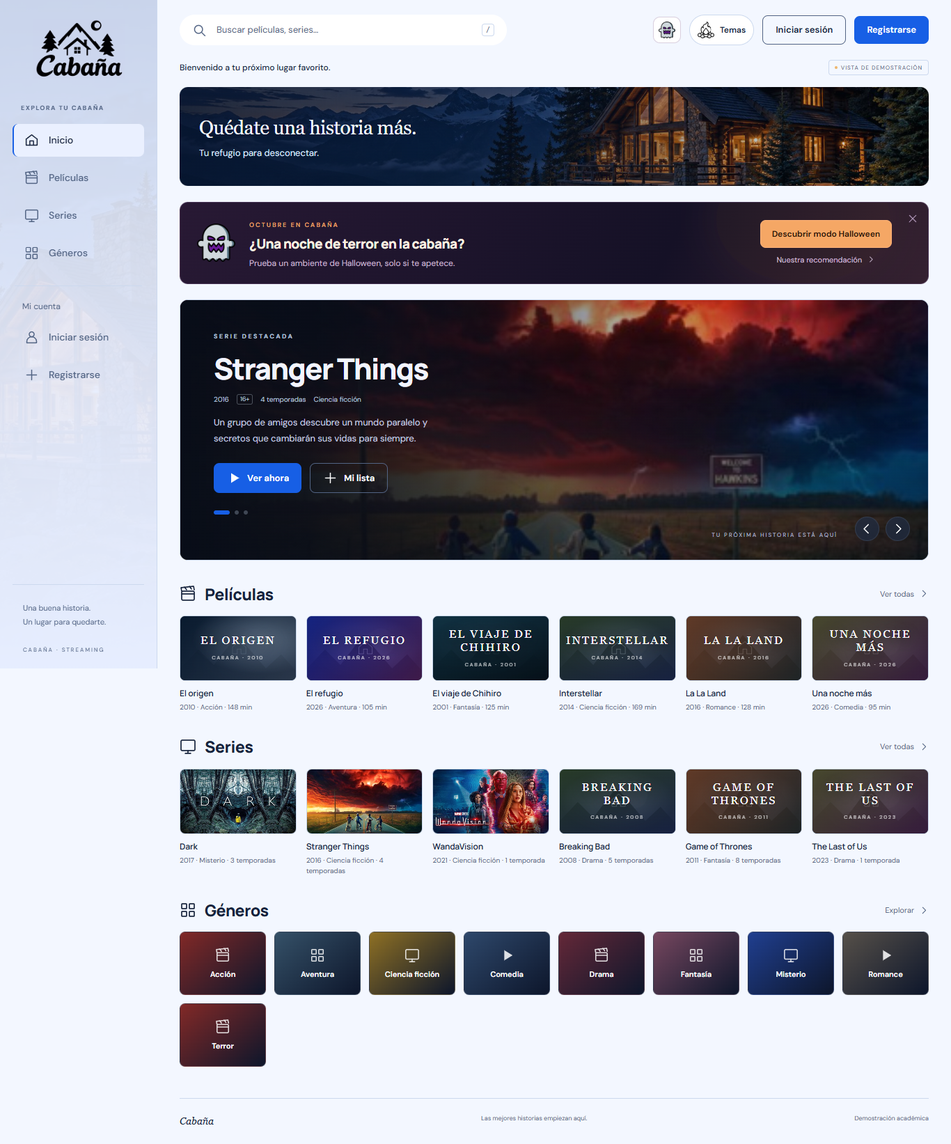
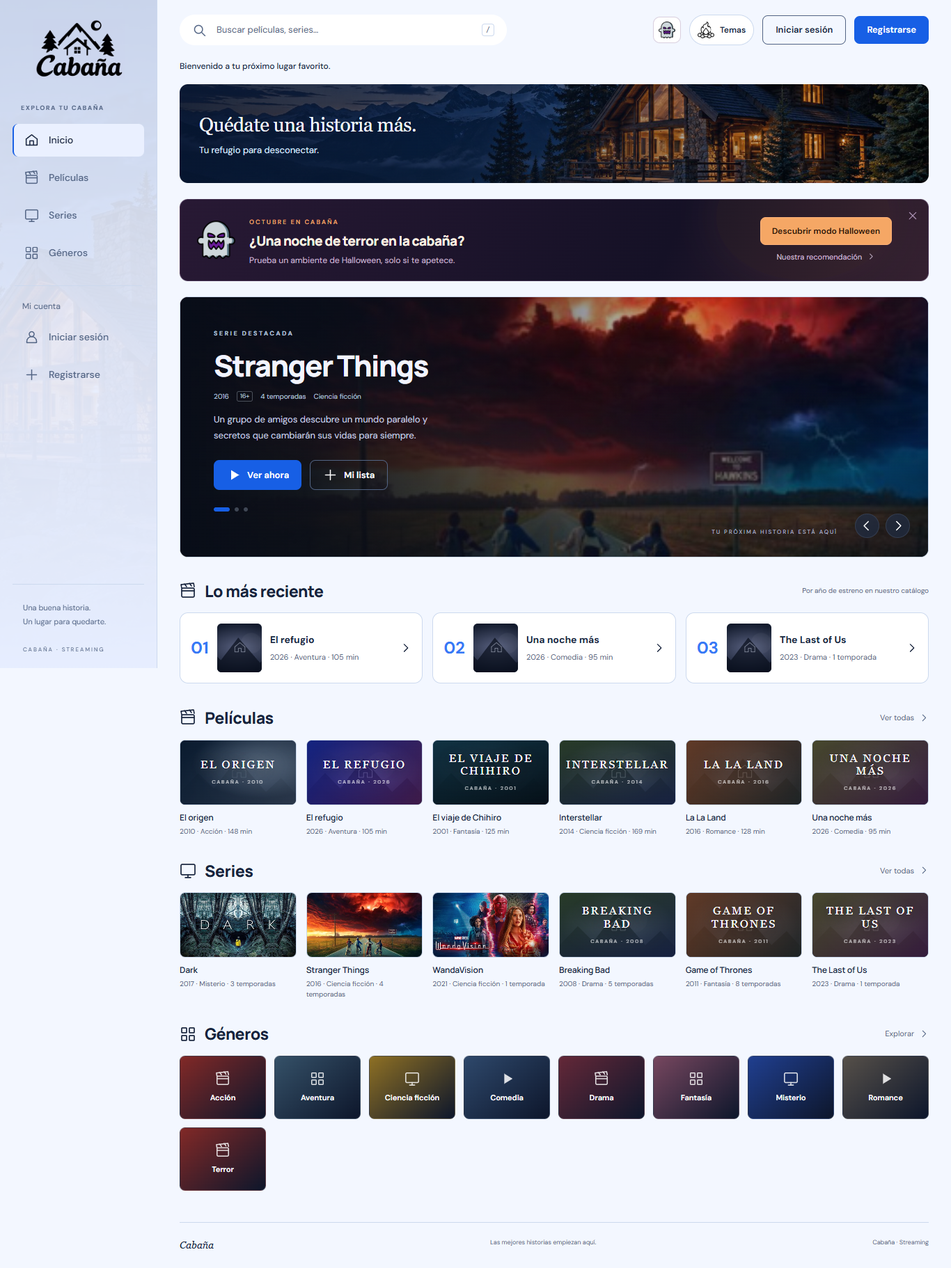
Ordena el frontend, recupera portadas y activa el inicio con Supabase

diff --git a/frontend/js/app.js b/frontend/js/app.js
@@ -1,21 +1,7 @@
 import {frontendUrl,assetUrl,contentImageUrl} from './paths.js';
 import {seasonalAnnouncement,halloweenRecommendation,setupHalloween,configureHalloween,addHalloweenVisitor,syncSeasonToggle} from './halloween.js';
-const icons = {
-  home:'<path d="m3 10 9-7 9 7v10H3Z"/><path d="M9 20v-7h6v7"/>',
-  movie:'<rect x="3" y="8" width="18" height="13" rx="2"/><path d="m3 8-1-5 18-2 1 5M7 2l3 4m4-5 3 4M3 12h18"/>',
-  series:'<rect x="2" y="3" width="20" height="15" rx="2"/><path d="M8 22h8m-4-4v4"/>',
-  genres:'<rect x="3" y="3" width="7" height="7" rx="1"/><rect x="14" y="3" width="7" height="7" rx="1"/><rect x="3" y="14" width="7" height="7" rx="1"/><rect x="14" y="14" width="7" height="7" rx="1"/>',
-  search:'<circle cx="10.5" cy="10.5" r="6.5"/><path d="m16 16 5 5"/>',
-  user:'<circle cx="12" cy="7" r="4"/><path d="M4 21v-2a8 8 0 0 1 16 0v2Z"/>',
-  plus:'<path d="M12 4v16M4 12h16"/>',check:'<path d="m4 12 5 5L20 6"/>',
-  play:'<path d="m8 4 13 8-13 8Z" fill="currentColor" stroke="none"/>',
-  left:'<path d="m14 5-7 7 7 7"/>',right:'<path d="m10 5 7 7-7 7"/>',close:'<path d="m5 5 14 14M19 5 5 19"/>',
-  eye:'<path d="M2 12s3-7 10-7 10 7 10 7-3 7-10 7-10-7-10-7Z"/><circle cx="12" cy="12" r="3"/>',
-  menu:'<path d="M3 6h18M3 12h18M3 18h18"/>',logout:'<path d="M9 3H3v18h6M9 12h12m-4-4 4 4-4 4"/>',
-  list:'<path d="M8 6h13M8 12h13M8 18h13M3 6h1M3 12h1M3 18h1"/>',
-  admin:'<path d="m12 2 8 4v6c0 5-8 10-8 10S4 17 4 12V6Z"/><path d="m8 12 3 3 5-6"/>',
-};
-const svg = name => `<svg viewBox="0 0 24 24" aria-hidden="true">${icons[name] || icons.genres}</svg>`;
+import {svg} from './components/icons.js';
+import {posterLibrary} from './data/posters.js';
 const $ = selector => document.querySelector(selector);
 const esc = value => String(value ?? '').replace(/[&<>"']/g,c=>({'&':'&amp;','<':'&lt;','>':'&gt;','"':'&quot;',"'":'&#39;'}[c]));
 const state = { catalog:[], genres:[], list:[], progress:[], token:null, user:null, demo:false, query:'', genre:new URLSearchParams(location.search).get('genre')||'', slide:0, refresh:null, loaded:false, admin:[] };
@@ -78,9 +64,14 @@ function hero(){
   state.slide=((state.slide%featured.length)+featured.length)%featured.length;const c=featured[state.slide];
   return `<section class="hero" aria-label="Contenido destacado"><div class="hero-art" id="hero-art"></div><div class="hero-shade"></div><div class="hero-content"><span class="eyebrow">${c.type==='SERIES'?'Serie':'Película'} destacada</span><h1>${esc(c.title)}</h1><div class="hero-meta"><span>${c.releaseYear}</span><span class="rating">${esc(c.ageRating)}</span><span>${c.type==='SERIES'?`${c.seasons} temporadas`:`${c.durationMinutes} min`}</span><span>${esc(c.genre)}</span></div><p>${esc(c.description)}</p><div class="hero-buttons"><button class="button primary" data-play="${c.id}">${svg('play')}Ver ahora</button><button class="button outline" data-save="${c.id}">${svg(saved(c.id)?'check':'plus')}${saved(c.id)?'En mi lista':'Mi lista'}</button></div><div class="hero-dots">${featured.map((f,i)=>`<button class="hero-dot ${i===state.slide?'active':''}" data-slide="${i}" aria-label="Mostrar ${esc(f.title)}" aria-pressed="${i===state.slide}"></button>`).join('')}</div></div><span class="hero-bottom">TU PRÓXIMA HISTORIA ESTÁ AQUÍ</span><div class="hero-arrows"><button class="icon-button" data-step="-1" aria-label="Destacado anterior">${svg('left')}</button><button class="icon-button" data-step="1" aria-label="Siguiente destacado">${svg('right')}</button></div></section>`;
 }
+function recentReleases(){
+  const titles=[...state.catalog].sort((a,b)=>b.releaseYear-a.releaseYear||a.title.localeCompare(b.title,'es')).slice(0,3);
+  if(!titles.length)return '';
+  return `<section class="section recent-releases" aria-labelledby="recent-title"><div class="section-heading"><h2 id="recent-title">${svg('movie')}Lo más reciente</h2><span class="card-meta">Por año de estreno en nuestro catálogo</span></div><div class="recent-grid">${titles.map((c,i)=>`<button class="recent-item" data-detail="${c.id}" aria-label="Ver detalles de ${esc(c.title)}"><span class="recent-number">${String(i+1).padStart(2,'0')}</span><img src="${esc(contentImageUrl(c.imageUrl))}" alt="" loading="lazy"><span><strong>${esc(c.title)}</strong><small>${meta(c)}</small></span>${svg('right')}</button>`).join('')}</div></section>`;
+}
 function home(){
   const continuing=state.progress.filter(p=>p.seconds>0).map(p=>p.content);
-  return `<div class="welcome-line"><strong>${state.user?`Qué bueno verte, ${esc(state.user.name.split(' ')[0])}.`:'Bienvenido a tu próximo lugar favorito.'}</strong>${state.demo?'<span class="demo-tag">VISTA DE DEMOSTRACIÓN</span>':''}</div><section class="cabin-welcome" aria-label="Bienvenido a Cabaña"><div><h2>Quédate una historia más.</h2><p>Tu refugio para desconectar.</p></div></section>${seasonalAnnouncement()}${hero()}${halloweenRecommendation()}${continuing.length?section('Seguir viendo','play',continuing,'list'):''}${section('Películas','movie',state.catalog.filter(c=>c.type==='MOVIE'),'movies')}${section('Series','series',state.catalog.filter(c=>c.type==='SERIES'),'series')}<section class="section"><div class="section-heading"><h2>${svg('genres')}Géneros</h2><a class="see-all" href="#genres">Explorar ${svg('right')}</a></div><div class="genres-grid">${genreTiles()}</div></section>`;
+  return `<div class="welcome-line"><strong>${state.user?`Qué bueno verte, ${esc(state.user.name.split(' ')[0])}.`:'Bienvenido a tu próximo lugar favorito.'}</strong>${state.demo?'<span class="demo-tag">VISTA DE DEMOSTRACIÓN</span>':''}</div><section class="cabin-welcome" aria-label="Bienvenido a Cabaña"><div><h2>Quédate una historia más.</h2><p>Tu refugio para desconectar.</p></div></section>${seasonalAnnouncement()}${hero()}${recentReleases()}${halloweenRecommendation()}${continuing.length?section('Seguir viendo','play',continuing,'list'):''}${section('Películas','movie',state.catalog.filter(c=>c.type==='MOVIE'),'movies')}${section('Series','series',state.catalog.filter(c=>c.type==='SERIES'),'series')}<section class="section"><div class="section-heading"><h2>${svg('genres')}Géneros</h2><a class="see-all" href="#genres">Explorar ${svg('right')}</a></div><div class="genres-grid">${genreTiles()}</div></section>`;
 }
 function empty(title,message,link='home',label='Explorar catálogo'){return `<div class="empty-state">${svg('search')}<h2>${title}</h2><p>${message}</p><a href="#${link}" class="button primary">${label}</a></div>`;}
 function browse(r){
@@ -140,7 +131,7 @@ async function reloadCatalog(){[state.catalog,state.genres]=await Promise.all([r
 function editor(id){
   const c=id==='new'?{}:state.admin.find(c=>c.id===id);if(!c)return;
   const field=(name,label,type='text',extra='')=>`<div class="form-field"><label for="edit-${name}">${label}</label><input id="edit-${name}" name="${name}" type="${type}" value="${esc(c[name]??'')}" ${extra}></div>`;
-  $('#editor-dialog').innerHTML=`<button class="icon-button dialog-close" data-close="editor-dialog" aria-label="Cerrar formulario">${svg('close')}</button><h2>${id==='new'?'Nuevo contenido':'Editar contenido'}</h2><form id="editor-form" data-id="${id}"><div class="form-grid"><div class="full">${field('title','Título','text','required maxlength="150"')}</div><div class="form-field full"><label for="edit-description">Descripción</label><textarea id="edit-description" name="description" required maxlength="2000">${esc(c.description??'')}</textarea></div><div class="form-field"><label for="edit-type">Tipo</label><select id="edit-type" name="type"><option value="MOVIE" ${c.type==='MOVIE'?'selected':''}>Película</option><option value="SERIES" ${c.type==='SERIES'?'selected':''}>Serie</option></select></div>${field('genre','Género','text','required maxlength="30"')}${field('releaseYear','Año','number','required min="1888" max="2100"')}${field('durationMinutes','Duración en minutos','number','required min="1" max="1500"')}${field('seasons','Temporadas (0 para películas)','number','required min="0" max="100"')}<div class="form-field"><label for="edit-ageRating">Clasificación</label><select id="edit-ageRating" name="ageRating">${['ATP','7+','13+','16+','18+'].map(r=>`<option ${c.ageRating===r?'selected':''}>${r}</option>`).join('')}</select></div><div class="full">${field('imageUrl','Imagen (URL HTTPS o /assets/)','text','required maxlength="1000"')}${field('videoPath','Ruta de video en Supabase (opcional)','text','maxlength="1000" placeholder="peliculas/mi-video.mp4"')}</div></div><label class="checkbox-field"><input name="featured" type="checkbox" ${c.featured?'checked':''}>Mostrar en destacados</label><p id="editor-error" class="form-error" role="alert"></p><button type="submit" class="button primary">Guardar contenido</button></form>`;
+  $('#editor-dialog').innerHTML=`<button class="icon-button dialog-close" data-close="editor-dialog" aria-label="Cerrar formulario">${svg('close')}</button><h2>${id==='new'?'Nuevo contenido':'Editar contenido'}</h2><form id="editor-form" data-id="${id}"><div class="form-grid"><div class="full">${field('title','Título','text','required maxlength="150"')}</div><div class="form-field full"><label for="edit-description">Descripción</label><textarea id="edit-description" name="description" required maxlength="2000">${esc(c.description??'')}</textarea></div><div class="form-field"><label for="edit-type">Tipo</label><select id="edit-type" name="type"><option value="MOVIE" ${c.type==='MOVIE'?'selected':''}>Película</option><option value="SERIES" ${c.type==='SERIES'?'selected':''}>Serie</option></select></div>${field('genre','Género','text','required maxlength="30"')}${field('releaseYear','Año','number','required min="1888" max="2100"')}${field('durationMinutes','Duración en minutos','number','required min="1" max="1500"')}${field('seasons','Temporadas (0 para películas)','number','required min="0" max="100"')}<div class="form-field"><label for="edit-ageRating">Clasificación</label><select id="edit-ageRating" name="ageRating">${['ATP','7+','13+','16+','18+'].map(r=>`<option ${c.ageRating===r?'selected':''}>${r}</option>`).join('')}</select></div><div class="full">${field('imageUrl','Imagen (URL HTTPS o /assets/)','text','required maxlength="1000"')}<details class="poster-library"><summary>Elegir una portada recuperada</summary><p>Selecciona la imagen que corresponda al contenido que estás editando.</p><div class="poster-library-grid">${posterLibrary.map(p=>`<button type="button" data-poster="${esc(p.path)}" aria-label="Usar portada: ${esc(p.label)}"><img src="${assetUrl(p.path.slice(8))}" alt="" loading="lazy"><span>${esc(p.label)}</span></button>`).join('')}</div></details>${field('videoPath','Ruta de video en Supabase (opcional)','text','maxlength="1000" placeholder="peliculas/mi-video.mp4"')}</div></div><label class="checkbox-field"><input name="featured" type="checkbox" ${c.featured?'checked':''}>Mostrar en destacados</label><p id="editor-error" class="form-error" role="alert"></p><button type="submit" class="button primary">Guardar contenido</button></form>`;
   $('#editor-dialog').showModal();
 }
 document.addEventListener('click',async event=>{
@@ -154,6 +145,7 @@ document.addEventListener('click',async event=>{
   if(b.dataset.genre){location.assign(pageLink('genres')+'?genre='+encodeURIComponent(b.dataset.genre));}
   if(b.dataset.filter!==undefined){state.genre=b.dataset.filter;render();}
   if(b.dataset.edit)editor(b.dataset.edit);
+  if(b.dataset.poster){$('#edit-imageUrl').value=b.dataset.poster;toast('Portada seleccionada. Guarda el contenido para aplicar el cambio.');}
   if(b.dataset.delete){const c=state.catalog.find(c=>c.id===b.dataset.delete);if(confirm(`¿Eliminar “${c.title}” del catálogo?`)){try{await request(`/admin/catalog/${c.id}`,{method:'DELETE'});await reloadCatalog();await render();toast('Contenido eliminado.');}catch(e){toast(e.message);}}}
   if(b.classList.contains('password-toggle')){const input=$('#password');input.type=input.type==='password'?'text':'password';b.setAttribute('aria-label',input.type==='password'?'Mostrar contraseña':'Ocultar contraseña');}
   if(b.dataset.action==='logout'){try{await request('/auth/logout',{method:'POST'});}finally{await clearSession();navigate('home');toast('Has cerrado sesión.');}}

diff --git a/frontend/css/cabana.css b/frontend/css/cabana.css
@@ -1,7 +1,7 @@
 /* Cabaña keeps its blue identity; the fire icon opens the theme choices. */
 :root[data-theme=light]{--bg:#f3f7ff;--sidebar:#e6eeff;--surface:#fff;--surface-2:#eaf0ff;--muted:#526484;--line:#ccd9ee}
 .sidebar{isolation:isolate}
-.sidebar:before{content:'';position:absolute;inset:0;z-index:-1;background:linear-gradient(0deg,var(--sidebar),transparent),url('./assets/cabin-blue.jpg') 68% center/cover;opacity:.38;pointer-events:none}
+.sidebar:before{content:'';position:absolute;inset:0;z-index:-1;background:linear-gradient(0deg,var(--sidebar),transparent),url('../assets/cabin-blue.jpg') 68% center/cover;opacity:.38;pointer-events:none}
 :root[data-theme=light] .sidebar:before{opacity:.14}
 .sidebar-bottom{border-top:1px solid var(--line);padding-top:18px}
 .little-fire{display:none}
@@ -19,13 +19,29 @@
 .theme-swatch-dark{background:linear-gradient(135deg,#111b30 50%,#246cff 50%)}
 .theme-swatch-light{background:linear-gradient(135deg,#fff 50%,#175fe5 50%)}
 .theme-swatch-halloween{background:linear-gradient(135deg,#241a32 50%,#fa974e 50%)}
-.cabin-welcome{min-height:142px;display:flex;align-items:center;padding:25px 28px;margin-bottom:23px;border-radius:var(--radius);color:#f5f8ff;background:linear-gradient(90deg,#07152eea,#07152e80 50%,#07152e16),url('./assets/cabin-blue.jpg') 65% 60%/cover}
+.cabin-welcome{min-height:142px;display:flex;align-items:center;padding:25px 28px;margin-bottom:23px;border-radius:var(--radius);color:#f5f8ff;background:linear-gradient(90deg,#07152eea,#07152e80 50%,#07152e16),url('../assets/cabin-blue.jpg') 65% 60%/cover}
 .cabin-welcome h2{font-family:Georgia,serif;font-weight:400;font-size:28px;letter-spacing:-.5px}
 .cabin-welcome p{font-size:13px;color:#dbe8ff;margin-top:6px}
-:root[data-theme=halloween] .sidebar:before{background:linear-gradient(#17101fd9,#17101fe8),url('./assets/halloween-bricks.jpg') center top/340px auto repeat;opacity:1}
+:root[data-theme=halloween] .sidebar:before{background:linear-gradient(#17101fd9,#17101fe8),url('../assets/halloween-bricks.jpg') center top/340px auto repeat;opacity:1}
 :root[data-theme=halloween] .sidebar .nav-item{color:#e7dced}
 :root[data-theme=halloween] .sidebar .nav-item.active,:root[data-theme=halloween] .sidebar .nav-item:hover{background:#271c35f2}
 :root[data-theme=halloween] .sidebar .nav-label,:root[data-theme=halloween] .sidebar .nav-section,:root[data-theme=halloween] .sidebar-bottom{color:#d7c6df}
-:root[data-theme=halloween] .cabin-welcome{background:linear-gradient(90deg,#19132fea,#26163360),url('./assets/cabin-blue.jpg') 65% 60%/cover}
+:root[data-theme=halloween] .cabin-welcome{background:linear-gradient(90deg,#19132fea,#26163360),url('../assets/cabin-blue.jpg') 65% 60%/cover}
 @media(max-width:800px){.topbar{position:relative;z-index:40}.topbar-actions{position:relative}.theme-picker{position:static}.menu-button{min-width:44px;min-height:44px}.theme-picker .theme-button{padding:8px;width:44px}.theme-label{display:none}}
 @media(max-width:520px){.topbar{gap:8px}.topbar-actions,#account-actions{gap:6px}.search-wrap{min-width:0;padding:9px}.search-wrap input{font-size:12px}.season-button{min-width:36px;min-height:44px}.topbar-actions .button{min-height:44px}.cabin-welcome{min-height:164px;padding:23px 21px;background-position:65% center}.cabin-welcome h2{font-size:25px}.welcome-line{gap:12px;flex-wrap:wrap}}
+.recent-grid{display:grid;grid-template-columns:repeat(3,minmax(0,1fr));gap:14px}
+.recent-item{display:flex;align-items:center;gap:12px;padding:15px;background:var(--surface);color:var(--text);border:1px solid var(--line);border-radius:var(--radius);text-align:left;min-width:0}
+.recent-item:hover{background:var(--surface-2)}
+.recent-number{font-size:24px;font-weight:800;color:var(--blue-hover)}
+.recent-item img{width:64px;height:70px;object-fit:cover;border-radius:6px}
+.recent-item strong{display:block;font-size:14px}
+.recent-item small{display:block;margin-top:6px;font-size:11px;color:var(--muted)}
+.recent-item>svg{width:18px;height:18px;flex-shrink:0;margin-left:auto}
+.poster-library{margin:8px 0 20px;padding:12px;background:var(--surface-2);border-radius:8px}
+.poster-library summary{cursor:pointer;font-weight:600}
+.poster-library p{font-size:12px;color:var(--muted);margin:10px 0}
+.poster-library-grid{display:grid;grid-template-columns:repeat(4,minmax(0,1fr));gap:10px}
+.poster-library-grid button{padding:7px;border:1px solid var(--line);border-radius:7px;background:var(--surface);color:var(--text);font-size:11px;text-align:left}
+.poster-library-grid img{display:block;width:100%;height:115px;object-fit:cover;border-radius:4px;margin-bottom:7px}
+@media(max-width:1100px){.recent-grid{grid-template-columns:1fr}.recent-item img{width:90px;height:58px}}
+@media(max-width:520px){.recent-releases .section-heading{align-items:flex-start;flex-direction:column;gap:8px}.recent-item{gap:9px;padding:12px}.recent-item img{width:55px}.poster-library-grid{grid-template-columns:repeat(2,minmax(0,1fr))}}

diff --git a/frontend/js/bootstrap.js b/frontend/js/bootstrap.js
@@ -1,11 +1,11 @@
 (() => {
-  const base = new URL('.', document.currentScript.src);
+  const base = new URL('../', document.currentScript.src);
   const loopback = ['localhost', '127.0.0.1', '[::1]'].includes(location.hostname);
   const liveServer = loopback && (/^55\d{2}$/.test(location.port) || base.pathname.endsWith('/frontend/'));
   if (location.protocol !== 'file:' && !liveServer) {
     const script = document.createElement('script');
     script.type = 'module';
-    script.src = new URL('app.js', base).href;
+    script.src = new URL('js/app.js', base).href;
     document.body.append(script);
     return;
   }
@@ -17,11 +17,11 @@
   document.querySelector('.brand').href = pageUrl('inicio');
   document.querySelector('#mode-label').textContent = `${liveServer ? 'Live Server' : 'Vista local'} · Inicia Java para usar Cabaña`;
   const main = document.querySelector('#main');
-  main.innerHTML = '<section class="page-heading"><span class="eyebrow">VISTA LOCAL</span><h1>Enciende la Cabaña</h1><p>El diseño ya está cargado. Para ver el catálogo, iniciar sesión y usar el CRUD, ejecuta <strong>Iniciar_Cabana.cmd</strong> desde la carpeta del proyecto con Java 21.</p><p>Después abre Cabaña desde el servidor:</p><a class="button primary" href="http://localhost:8080/pages/inicio.html">Abrir Cabaña en localhost:8080</a></section>';
+  main.innerHTML = '<section class="page-heading"><span class="eyebrow">VISTA LOCAL</span><h1>Enciende la Cabaña</h1><p>El diseño ya está cargado. Para ver el catálogo, iniciar sesión y usar el CRUD, ejecuta <strong>Iniciar_Cabana.cmd</strong> desde la carpeta del proyecto con Java 21. Si eliges otro puerto, abre la dirección que indica el lanzador.</p><p>Después abre Cabaña desde el servidor:</p><a class="button primary" href="http://localhost:8081/pages/inicio.html">Abrir Cabaña en localhost:8081</a></section>';
   if (liveServer) {
     main.querySelector('.eyebrow').textContent = 'LIVE SERVER · VISTA DEL DISEÑO';
     const explanation = document.createElement('p');
-    explanation.textContent = 'Live Server sirve los archivos HTML y CSS, pero no ejecuta la API Java. La aplicación completa se abre en localhost:8080.';
+    explanation.textContent = 'Live Server sirve los archivos HTML y CSS, pero no ejecuta la API Java. La aplicación completa se abre en localhost:8081.';
     main.querySelector('h1').after(explanation);
   }
   const template = document.querySelector('#auth-layout');
@@ -29,7 +29,7 @@
     main.append(template.content.cloneNode(true));
     main.querySelector('form').addEventListener('submit', event => event.preventDefault());
     main.querySelector('button[type="submit"]').disabled = true;
-    main.querySelector('#auth-error').textContent = 'Inicia Java y abre localhost:8080 para acceder a tu cuenta.';
+    main.querySelector('#auth-error').textContent = 'Inicia Java y abre localhost:8081 para acceder a tu cuenta.';
   }
   document.querySelector('#search').disabled = true;
   const season = document.querySelector('#halloween-toggle');

diff --git a/frontend/js/components/icons.js b/frontend/js/components/icons.js
@@ -1,0 +1,16 @@
+const icons = {
+  home:'<path d="m3 10 9-7 9 7v10H3Z"/><path d="M9 20v-7h6v7"/>',
+  movie:'<rect x="3" y="8" width="18" height="13" rx="2"/><path d="m3 8-1-5 18-2 1 5M7 2l3 4m4-5 3 4M3 12h18"/>',
+  series:'<rect x="2" y="3" width="20" height="15" rx="2"/><path d="M8 22h8m-4-4v4"/>',
+  genres:'<rect x="3" y="3" width="7" height="7" rx="1"/><rect x="14" y="3" width="7" height="7" rx="1"/><rect x="3" y="14" width="7" height="7" rx="1"/><rect x="14" y="14" width="7" height="7" rx="1"/>',
+  search:'<circle cx="10.5" cy="10.5" r="6.5"/><path d="m16 16 5 5"/>',
+  user:'<circle cx="12" cy="7" r="4"/><path d="M4 21v-2a8 8 0 0 1 16 0v2Z"/>',
+  plus:'<path d="M12 4v16M4 12h16"/>',check:'<path d="m4 12 5 5L20 6"/>',
+  play:'<path d="m8 4 13 8-13 8Z" fill="currentColor" stroke="none"/>',
+  left:'<path d="m14 5-7 7 7 7"/>',right:'<path d="m10 5 7 7-7 7"/>',close:'<path d="m5 5 14 14M19 5 5 19"/>',
+  eye:'<path d="M2 12s3-7 10-7 10 7 10 7-3 7-10 7-10-7-10-7Z"/><circle cx="12" cy="12" r="3"/>',
+  menu:'<path d="M3 6h18M3 12h18M3 18h18"/>',logout:'<path d="M9 3H3v18h6M9 12h12m-4-4 4 4-4 4"/>',
+  list:'<path d="M8 6h13M8 12h13M8 18h13M3 6h1M3 12h1M3 18h1"/>',
+  admin:'<path d="m12 2 8 4v6c0 5-8 10-8 10S4 17 4 12V6Z"/><path d="m8 12 3 3 5-6"/>',
+};
+export const svg = name => `<svg viewBox="0 0 24 24" aria-hidden="true">${icons[name] || icons.genres}</svg>`;

diff --git a/frontend/pages/login.html b/frontend/pages/login.html
@@ -4,7 +4,7 @@
   <meta charset="UTF-8"><meta name="viewport" content="width=device-width, initial-scale=1.0">
   <meta name="description" content="Accede a tu cuenta de Cabaña.">
   <meta name="theme-color" content="#0b101c"><title>Iniciar sesión · Cabaña</title>
-  <link rel="icon" href="../assets/bonfire.png"><link rel="stylesheet" href="../styles.css"><link rel="stylesheet" href="../halloween.css"><link rel="stylesheet" href="../cabana.css">
+  <link rel="icon" href="../assets/bonfire.png"><link rel="stylesheet" href="../css/styles.css"><link rel="stylesheet" href="../css/halloween.css"><link rel="stylesheet" href="../css/cabana.css">
   <script>try { const theme=localStorage.getItem('cabana-theme'); if(['dark','light','halloween'].includes(theme)) document.documentElement.dataset.theme=theme; } catch {}</script>
 </head>
 <body data-page="login">
@@ -46,7 +46,7 @@
 <p class="demo-help" data-demo-hint hidden>Acceso de demostración al panel de control<br><strong>admin@cabana.demo</strong> · <strong>Cabana2026!</strong><br>Los datos de esta demostración se reinician al apagar el servidor.</p>
 </div></section>
 </template>
-  <script src="../themes.js"></script>
-  <script src="../bootstrap.js"></script>
+  <script src="../js/themes.js"></script>
+  <script src="../js/bootstrap.js"></script>
 </body>
 </html>

diff --git a/frontend/pages/panel-control.html b/frontend/pages/panel-control.html
@@ -4,7 +4,7 @@
   <meta charset="UTF-8"><meta name="viewport" content="width=device-width, initial-scale=1.0">
   <meta name="description" content="Administra el catálogo de Cabaña.">
   <meta name="theme-color" content="#0b101c"><title>Panel de control · Cabaña</title>
-  <link rel="icon" href="../assets/bonfire.png"><link rel="stylesheet" href="../styles.css"><link rel="stylesheet" href="../halloween.css"><link rel="stylesheet" href="../cabana.css">
+  <link rel="icon" href="../assets/bonfire.png"><link rel="stylesheet" href="../css/styles.css"><link rel="stylesheet" href="../css/halloween.css"><link rel="stylesheet" href="../css/cabana.css">
   <script>try { const theme=localStorage.getItem('cabana-theme'); if(['dark','light','halloween'].includes(theme)) document.documentElement.dataset.theme=theme; } catch {}</script>
 </head>
 <body data-page="admin">
@@ -29,7 +29,7 @@
   <dialog id="editor-dialog" class="editor-dialog" aria-label="Editar contenido"></dialog>
   <dialog id="halloween-dialog" class="halloween-dialog" aria-labelledby="halloween-title"></dialog>
   <div id="toast" role="status" aria-live="polite"></div>
-  <script src="../themes.js"></script>
-  <script src="../bootstrap.js"></script>
+  <script src="../js/themes.js"></script>
+  <script src="../js/bootstrap.js"></script>
 </body>
 </html>

diff --git a/frontend/pages/registro.html b/frontend/pages/registro.html
@@ -4,7 +4,7 @@
   <meta charset="UTF-8"><meta name="viewport" content="width=device-width, initial-scale=1.0">
   <meta name="description" content="Regístrate en Cabaña.">
   <meta name="theme-color" content="#0b101c"><title>Crear cuenta · Cabaña</title>
-  <link rel="icon" href="../assets/bonfire.png"><link rel="stylesheet" href="../styles.css"><link rel="stylesheet" href="../halloween.css"><link rel="stylesheet" href="../cabana.css">
+  <link rel="icon" href="../assets/bonfire.png"><link rel="stylesheet" href="../css/styles.css"><link rel="stylesheet" href="../css/halloween.css"><link rel="stylesheet" href="../css/cabana.css">
   <script>try { const theme=localStorage.getItem('cabana-theme'); if(['dark','light','halloween'].includes(theme)) document.documentElement.dataset.theme=theme; } catch {}</script>
 </head>
 <body data-page="register">
@@ -46,7 +46,7 @@
 <p class="demo-help" data-demo-hint hidden>Acceso de demostración al panel de control<br><strong>admin@cabana.demo</strong> · <strong>Cabana2026!</strong><br>Los datos de esta demostración se reinician al apagar el servidor.</p>
 </div></section>
 </template>
-  <script src="../themes.js"></script>
-  <script src="../bootstrap.js"></script>
+  <script src="../js/themes.js"></script>
+  <script src="../js/bootstrap.js"></script>
 </body>
 </html>

diff --git a/frontend/pages/generos.html b/frontend/pages/generos.html
@@ -4,7 +4,7 @@
   <meta charset="UTF-8"><meta name="viewport" content="width=device-width, initial-scale=1.0">
   <meta name="description" content="Elige el género que quieres descubrir.">
   <meta name="theme-color" content="#0b101c"><title>Géneros · Cabaña</title>
-  <link rel="icon" href="../assets/bonfire.png"><link rel="stylesheet" href="../styles.css"><link rel="stylesheet" href="../halloween.css"><link rel="stylesheet" href="../cabana.css">
+  <link rel="icon" href="../assets/bonfire.png"><link rel="stylesheet" href="../css/styles.css"><link rel="stylesheet" href="../css/halloween.css"><link rel="stylesheet" href="../css/cabana.css">
   <script>try { const theme=localStorage.getItem('cabana-theme'); if(['dark','light','halloween'].includes(theme)) document.documentElement.dataset.theme=theme; } catch {}</script>
 </head>
 <body data-page="genres">
@@ -29,7 +29,7 @@
   <dialog id="editor-dialog" class="editor-dialog" aria-label="Editar contenido"></dialog>
   <dialog id="halloween-dialog" class="halloween-dialog" aria-labelledby="halloween-title"></dialog>
   <div id="toast" role="status" aria-live="polite"></div>
-  <script src="../themes.js"></script>
-  <script src="../bootstrap.js"></script>
+  <script src="../js/themes.js"></script>
+  <script src="../js/bootstrap.js"></script>
 </body>
 </html>

diff --git a/frontend/pages/peliculas.html b/frontend/pages/peliculas.html
@@ -4,7 +4,7 @@
   <meta charset="UTF-8"><meta name="viewport" content="width=device-width, initial-scale=1.0">
   <meta name="description" content="Explora el catálogo de películas.">
   <meta name="theme-color" content="#0b101c"><title>Películas · Cabaña</title>
-  <link rel="icon" href="../assets/bonfire.png"><link rel="stylesheet" href="../styles.css"><link rel="stylesheet" href="../halloween.css"><link rel="stylesheet" href="../cabana.css">
+  <link rel="icon" href="../assets/bonfire.png"><link rel="stylesheet" href="../css/styles.css"><link rel="stylesheet" href="../css/halloween.css"><link rel="stylesheet" href="../css/cabana.css">
   <script>try { const theme=localStorage.getItem('cabana-theme'); if(['dark','light','halloween'].includes(theme)) document.documentElement.dataset.theme=theme; } catch {}</script>
 </head>
 <body data-page="movies">
@@ -29,7 +29,7 @@
   <dialog id="editor-dialog" class="editor-dialog" aria-label="Editar contenido"></dialog>
   <dialog id="halloween-dialog" class="halloween-dialog" aria-labelledby="halloween-title"></dialog>
   <div id="toast" role="status" aria-live="polite"></div>
-  <script src="../themes.js"></script>
-  <script src="../bootstrap.js"></script>
+  <script src="../js/themes.js"></script>
+  <script src="../js/bootstrap.js"></script>
 </body>
 </html>

diff --git a/frontend/index.html b/frontend/index.html
@@ -4,7 +4,7 @@
   <meta charset="UTF-8"><meta name="viewport" content="width=device-width, initial-scale=1.0">
   <meta name="description" content="Cabaña: tu lugar para descubrir películas y series.">
   <meta name="theme-color" content="#0b101c"><title>Cabaña · Tu próxima historia</title>
-  <link rel="icon" href="./assets/bonfire.png"><link rel="stylesheet" href="./styles.css"><link rel="stylesheet" href="./halloween.css"><link rel="stylesheet" href="./cabana.css">
+  <link rel="icon" href="./assets/bonfire.png"><link rel="stylesheet" href="./css/styles.css"><link rel="stylesheet" href="./css/halloween.css"><link rel="stylesheet" href="./css/cabana.css">
   <script>try { const theme=localStorage.getItem('cabana-theme'); if(['dark','light','halloween'].includes(theme)) document.documentElement.dataset.theme=theme; } catch {}</script>
 </head>
 <body>
@@ -28,7 +28,7 @@
   <dialog id="editor-dialog" class="editor-dialog" aria-label="Editar contenido"></dialog>
   <dialog id="halloween-dialog" class="halloween-dialog" aria-labelledby="halloween-title"></dialog>
   <div id="toast" role="status" aria-live="polite"></div>
-  <script src="./themes.js"></script>
-  <script src="./bootstrap.js"></script>
+  <script src="./js/themes.js"></script>
+  <script src="./js/bootstrap.js"></script>
 </body>
 </html>

diff --git a/frontend/pages/mi-lista.html b/frontend/pages/mi-lista.html
@@ -4,7 +4,7 @@
   <meta charset="UTF-8"><meta name="viewport" content="width=device-width, initial-scale=1.0">
   <meta name="description" content="Tus películas y series favoritas.">
   <meta name="theme-color" content="#0b101c"><title>Mi lista · Cabaña</title>
-  <link rel="icon" href="../assets/bonfire.png"><link rel="stylesheet" href="../styles.css"><link rel="stylesheet" href="../halloween.css"><link rel="stylesheet" href="../cabana.css">
+  <link rel="icon" href="../assets/bonfire.png"><link rel="stylesheet" href="../css/styles.css"><link rel="stylesheet" href="../css/halloween.css"><link rel="stylesheet" href="../css/cabana.css">
   <script>try { const theme=localStorage.getItem('cabana-theme'); if(['dark','light','halloween'].includes(theme)) document.documentElement.dataset.theme=theme; } catch {}</script>
 </head>
 <body data-page="list">
@@ -29,7 +29,7 @@
   <dialog id="editor-dialog" class="editor-dialog" aria-label="Editar contenido"></dialog>
   <dialog id="halloween-dialog" class="halloween-dialog" aria-labelledby="halloween-title"></dialog>
   <div id="toast" role="status" aria-live="polite"></div>
-  <script src="../themes.js"></script>
-  <script src="../bootstrap.js"></script>
+  <script src="../js/themes.js"></script>
+  <script src="../js/bootstrap.js"></script>
 </body>
 </html>

diff --git a/frontend/pages/inicio.html b/frontend/pages/inicio.html
@@ -4,7 +4,7 @@
   <meta charset="UTF-8"><meta name="viewport" content="width=device-width, initial-scale=1.0">
   <meta name="description" content="Descubre tu próxima historia.">
   <meta name="theme-color" content="#0b101c"><title>Inicio · Cabaña</title>
-  <link rel="icon" href="../assets/bonfire.png"><link rel="stylesheet" href="../styles.css"><link rel="stylesheet" href="../halloween.css"><link rel="stylesheet" href="../cabana.css">
+  <link rel="icon" href="../assets/bonfire.png"><link rel="stylesheet" href="../css/styles.css"><link rel="stylesheet" href="../css/halloween.css"><link rel="stylesheet" href="../css/cabana.css">
   <script>try { const theme=localStorage.getItem('cabana-theme'); if(['dark','light','halloween'].includes(theme)) document.documentElement.dataset.theme=theme; } catch {}</script>
 </head>
 <body data-page="home">
@@ -29,7 +29,7 @@
   <dialog id="editor-dialog" class="editor-dialog" aria-label="Editar contenido"></dialog>
   <dialog id="halloween-dialog" class="halloween-dialog" aria-labelledby="halloween-title"></dialog>
   <div id="toast" role="status" aria-live="polite"></div>
-  <script src="../themes.js"></script>
-  <script src="../bootstrap.js"></script>
+  <script src="../js/themes.js"></script>
+  <script src="../js/bootstrap.js"></script>
 </body>
 </html>
